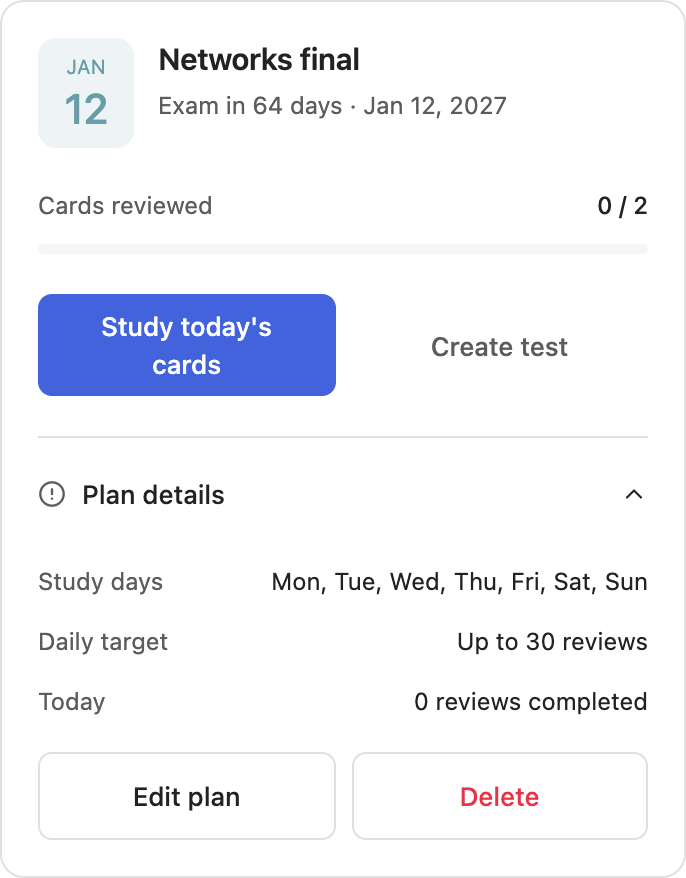
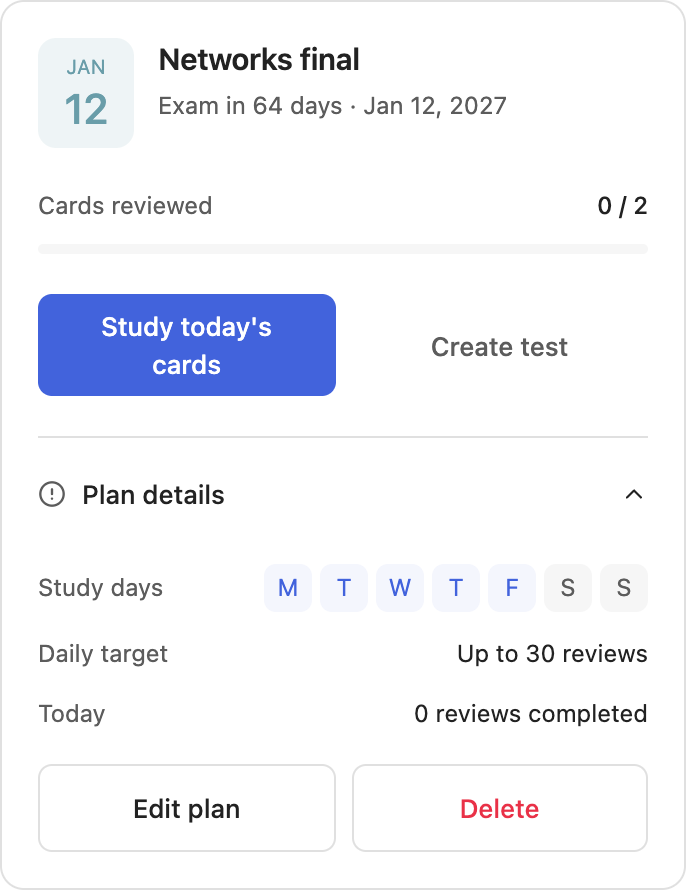
Refresh main-to-latest plan and question-flow screenshots

diff --git a/docs/images/ui-main-latest/audit-report.md b/docs/images/ui-main-latest/audit-report.md
@@ -1,22 +1,24 @@
-# PR #11 — code review fixes
+# PR #11 — waiting checks, question flow and plan details
 
-Source: `e1ea1e7cf6bf52646f27b53a475ac2607f8e45fc`. Baseline: fork main `70056821914f0dae910b52a20f1fa3329b04d0ac`.
+Source: `e8749bb0c4f8ec7b7d47234f4e496a39ba873e98`. Baseline: fork main `70056821914f0dae910b52a20f1fa3329b04d0ac`.
 
-Addressed all outstanding review threads. The earlier real-parent compact expansion finding was already fixed in d674610 and was verified before resolution. Two further fixes are included in this commit:
+Latest refinements:
 
-- StudyCard retains face containers but mounts Markdown/CardContent only in the active face, including an initially revealed card. Hidden faces no longer trigger zero-width Mermaid layout. Active-face height, basic/cloze/image behavior and renderer cleanup are preserved.
-- Virtual parent groups, which have no detail route, retain Deck options and Rename group through a compact More menu. Real compact decks keep streamlined controls. Desktop management remains inline. Menu actions do not open/fold the deck accidentally. A nested rename dialog owns cancellation while open; pending operations and eventual errors survive Escape.
+- While-you-wait activity chip reads Check. Its content retains the full check heading and switching behavior.
+- Removed the redundant lesson-probe introduction, as requested.
+- Plan details show seven read-only weekday initials. Existing spacing, metadata, radius and theme tokens define neutral/rest and selected/study appearances. Full weekday and status remain in tooltips. On the narrowest panes, the intact seven-day row wraps beneath Study days instead of overflowing.
+- Question borders occur only between adjacent question articles. This also covers marked checks with an outcome inserted above the first question.
 
-`npm run check` passed: 784 tests in 96 suites, formatting, TypeScript, ESLint, Stylelint, build and release checks. Final CSS lint/build passed. Regression tests cover both face directions, initially revealed state, unchanged-state render stability and cleanup, sibling-cloze undo behavior, group management callback identity and deferred rename errors.
+`npm run check` passed on this source: 784 tests in 96 suites; formatting, TypeScript, ESLint, Stylelint, build and release checks. The existing waiting-activity test was updated to require the short Check label and retains switching coverage. Independent read-only source review found no actionable regressions.
 
-264 integrated light/dark pane/device scenarios passed without runtime errors, unintended main horizontal overflow or sampled out-of-bounds panels.
+18 focused rendered cases passed in light/dark themes at 320/390/1100px: first question has no border, second retains its separator, probe introduction is absent, waiting Check chip has no title suffix, weekday initials/order/selection/rest styling match the saved plan, and content stays within the pane with no unintended horizontal overflow.
 
-16 rendered management assertions passed at 320/390/1100px in both themes: compact menu containment and stacking, native rename dialog, options screen, no real-deck navigation, desktop menu hidden and inline options retained.
+40 browser screenshot pairs freshly captured from main/latest, including the probe and waiting-check flows, without runtime errors. All latest captures have no unintended main horizontal overflow. Main retains the pre-existing nested-deck and Study time overflow visible in those comparisons. Plan fixtures use Monday–Friday in both phases so neutral and selected weekday states are visible.
 
-Real Obsidian Mermaid validation uses the actual public Markdown renderer through a temporary isolated test harness. Each phase uses its own Qard source/CSS, with the installed Qard stylesheet temporarily disabled and restored. Main renders hidden content into a measurable 308px target. Latest does not mount hidden answer Markdown; first reveal renders Mermaid in a visible 324px target, producing all 3 nodes. The diagram is 207.1×278px and readable within the 390px pane. Harness plugin, globals, DOM, render interception and temporary styles are unloaded/restored; its two owned files are removed.
+The unchanged native Obsidian Mermaid pair is retained from the previous verified source e1ea1e7: StudyCard, Markdown and applicable native-card styles are unchanged. The capture manifest identifies this retained scene explicitly. Together there are 41 pairs, 82 images, equal before/after columns and no more than three examples per group. No intermediate revision is used as before.
 
-39 main-to-latest screenshot pairs: 38 matched browser fixtures plus one native Mermaid pair. The new compact group menu and real diagram examples are included in existing relevant groups, with at most three examples per group, two equal columns and full-resolution links. Main’s virtual-group actions are inline; the latest example opens its compact menu to show the equivalent actions. No intermediate revision serves as before.
+Earlier verification on e1ea1e7 covered 264 integrated responsive scenarios, 16 rendered group-management checks, and real Obsidian Mermaid rendering. These are prior-head evidence, not additional freshly rerun cases. Latest-head verification is stated above.
 
-The isolated plugin install matches the final source build and is reloaded on Learn. DevBook plugin files, global Obsidian configuration and installed app hashes remain unchanged. Separate test app remains open; no development server started. Mobile coverage is simulated pane/touch input, not physical iPhone/Safari.
+The new build is installed and reloaded only in the isolated Obsidian test vault, returned to Learn. Test plugin files match the build; DevBook plugin files, global Obsidian configuration and installed app hashes remain unchanged. Separate test app remains open; no development server was started. Phone coverage uses simulated touch/pane input, not physical iPhone/Safari. Keyboard accessibility remains outside the visual audit.
 
-GitHub code review completed at 2026-11-10T09:24:39Z for exact source e1ea1e7cf6bf52646f27b53a475ac2607f8e45fc with has_any_findings:false and has_unresolved_findings:false. All 6 review threads are resolved; no review was dismissed to clear findings. Hosted pull-request workflow runs were absent for this fork head, so test claims refer to local checks and isolated/browser validation.
+All six review threads remain resolved. The latest automated review state reported by GitHub is saved in review-state.json with its source commit; the current local source review found no issues. The PR remains open and unmerged.
